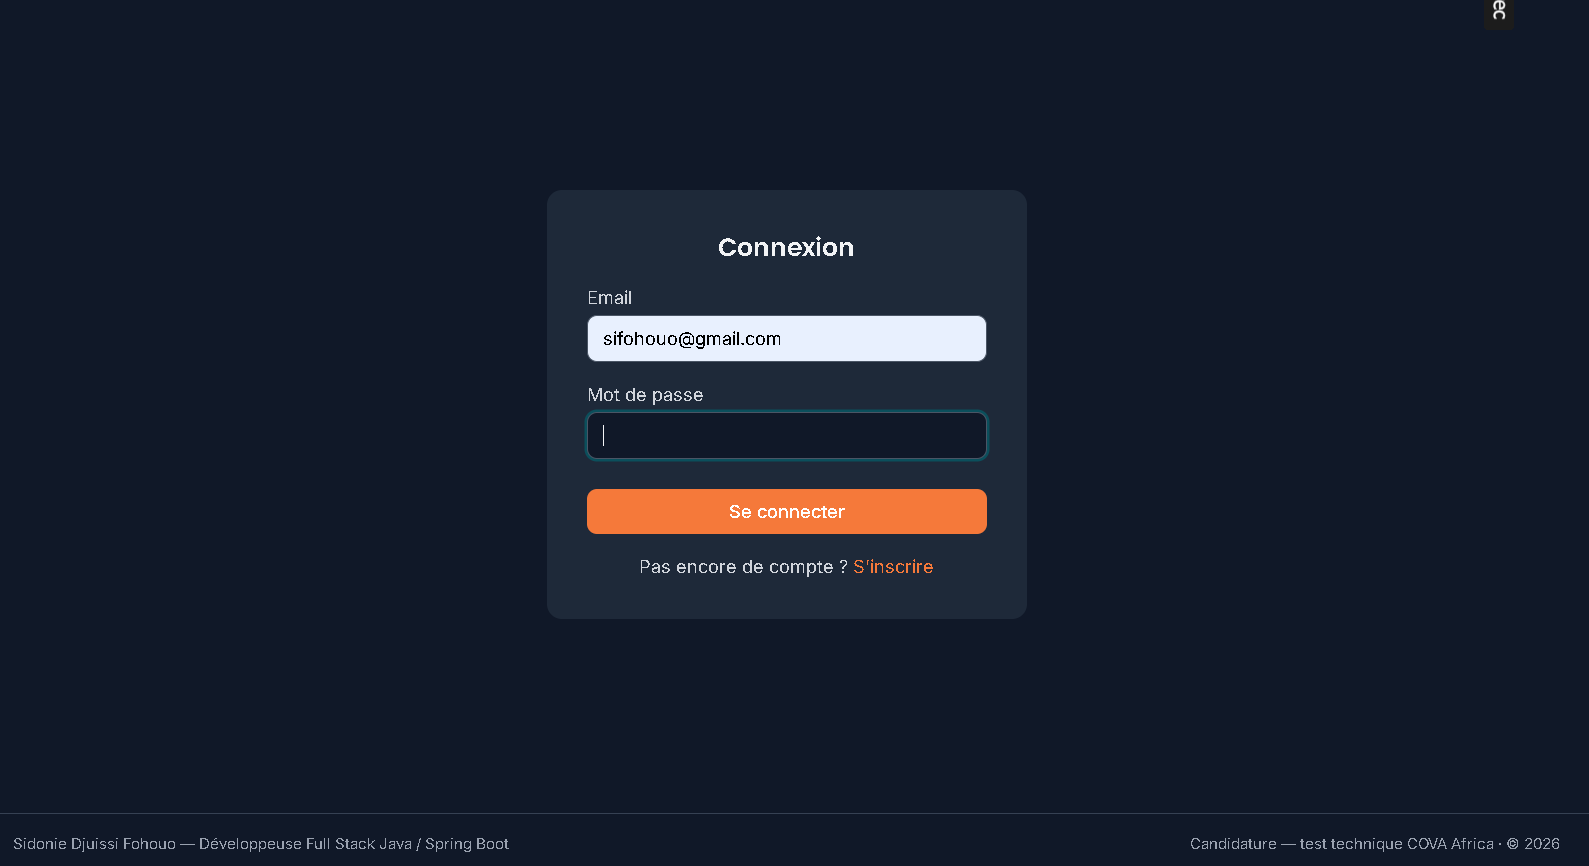
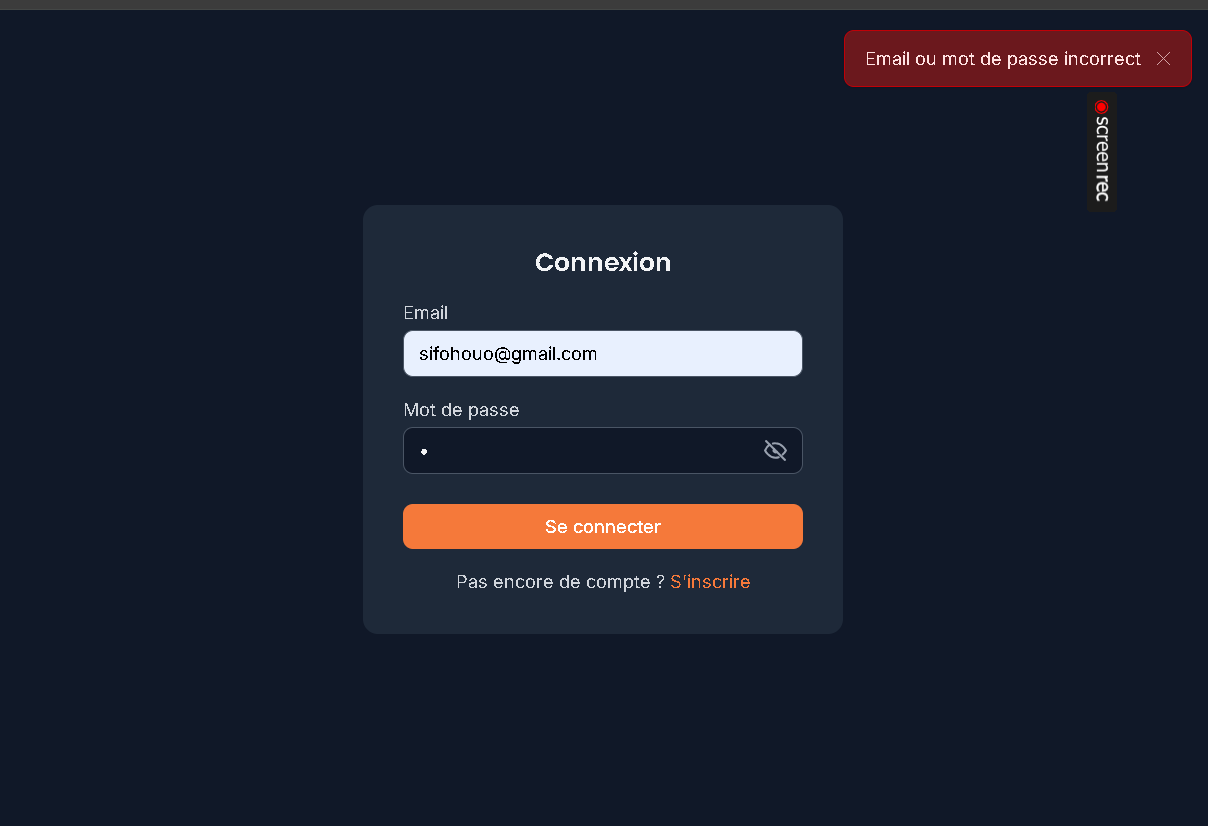
docs: ajoute la capture du filtre par statut et met à jour la section conteneurisation

diff --git a/README.md b/README.md
@@ -85,6 +85,13 @@ Le code est structuré en couches classiques :
    ./mvnw spring-boot:run
    ```
 
+   ou
+
+   ```bash
+   cd task_manager_backend
+   docker compose up -d
+   ```
+
 ### Accès
 
 - Frontend : http://localhost:5173
@@ -129,6 +136,10 @@ Erreur à l'inscription
 
 ![Erreur à l'inscription](./task_manager_frontend/docs/screenshots/err-inscription.PNG)
 
+Bouton afficher/masquer le mot de passe
+
+![Bouton afficher/masquer le mot de passe](./task_manager_frontend/docs/screenshots/inscription-toggle-oeil.PNG)
+
 Erreur : les mots de passe ne correspondent pas
 
 ![Erreur mots de passe différents](./task_manager_frontend/docs/screenshots/err-password-ne%20correspond-pas.PNG)
@@ -136,6 +147,10 @@ Erreur : les mots de passe ne correspondent pas
 Liste des tâches
 
 ![Liste des tâches](./task_manager_frontend/docs/screenshots/liste-taches.PNG)
+
+Filtrage des tâches par statut
+
+![Filtrage des tâches par statut](./task_manager_frontend/docs/screenshots/filtre-statut.PNG)
 
 Modification d'une tâche
 
@@ -179,10 +194,10 @@ Le cahier des charges incluait deux volets bonus : une version mobile en Flutter
 
 Pour la couche service, j'ai séparé les interfaces de leurs implémentations (`service` / `service/impl`). Ce n'est pas strictement nécessaire sur un projet de cette taille, mais ça facilite le mock dans les tests unitaires et ça garde une porte ouverte si le besoin de plusieurs implémentations se présente un jour.
 
-Côté conteneurisation, seul le frontend tourne dans Docker. Tailwind CSS v4 a besoin de Node 22, une version que je n'avais pas envie d'imposer en local, donc je l'ai isolée dans un conteneur. Le backend, lui, tourne nativement avec `./mvnw spring-boot:run` : ça reste plus simple et plus rapide pour itérer pendant le développement, sans les allers-retours de rebuild d'image à chaque changement. Seule MySQL, en plus du frontend, est conteneurisée pour éviter d'avoir à installer et configurer une instance locale.
+Côté conteneurisation, les trois services (MySQL, backend et frontend) tournent désormais dans des conteneurs Docker, orchestrés par le même `docker-compose.yml`. Au départ, j'ai isolé le frontend dans un conteneur parce que Tailwind CSS v4 a besoin de Node 22, une version que je n'avais pas envie d'imposer en local. J'ai ensuite conteneurisé le backend à son tour pour permettre un déploiement complet du projet, tout en gardant la possibilité de le lancer nativement avec `./mvnw spring-boot:run` pendant le développement local, ce qui reste plus rapide pour itérer sans les allers-retours de rebuild d'image à chaque changement.
 
 ## Auteur
 
-- Sidonie Djuissi Fohouo (Sifo)
+- Sidonie Djuissi Fohouo
 - Développeuse Full Stack Java / Spring Boot
 - LinkedIn : linkedin.com/in/sidonie-djuissi-fohouo
